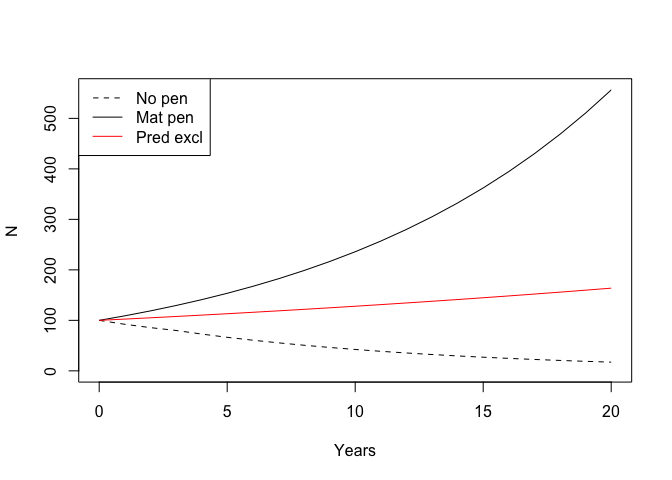
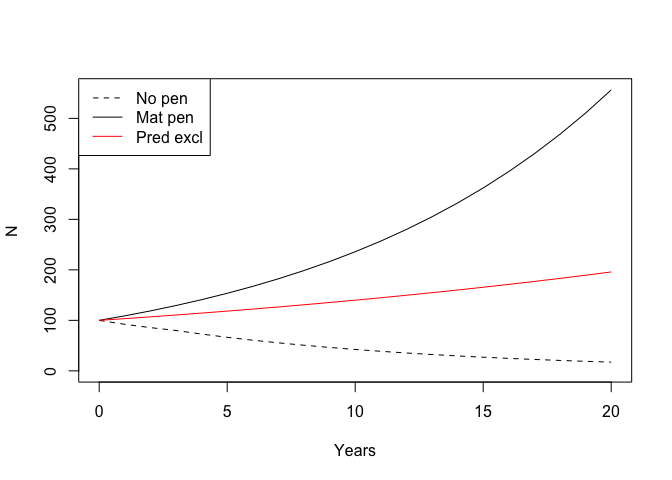
Updated README.md

Changed region(s): [[0.2812, 0.5625, 0.9062, 0.6562], [0.1562, 0.6562, 0.2812, 0.6875]]

diff --git a/README.md b/README.md
@@ -1,27 +1,54 @@
 # WildLift
 
->  An Open-source Tool to Guide Decisions for Wildlife Conservation
+> An Open-source Tool to Guide Decisions for Wildlife Conservation
 
 [![Linux build
 status](https://travis-ci.org/psolymos/CaribouBC.svg?branch=master)](https://travis-ci.org/psolymos/CaribouBC)
 [![codecov](https://codecov.io/gh/psolymos/CaribouBC/branch/master/graph/badge.svg)](https://codecov.io/gh/psolymos/CaribouBC)
 
-Try the [Shiny app](https://psolymos.shinyapps.io/CaribouBC/) or run
-locally as `shiny::runGitHub("bcgov/CaribouBC", subdir =
-"inst/shiny/matpen")`.
+**WildLift** can be used to quantitatively compare the **costs** and
+demographic **benefits** of recovery actions for an iconic threatened
+species, woodland caribou (*Rangifer tarandus caribou*). While we use
+caribou as a case study, our approach to developing this management tool
+is transferable to other threatened taxa.
+
+The tool consists of a generalized matrix population model that is
+parametrized based on information from the published literature or
+ongoing experiments. Users can input population parameters (e.g.,
+population size and survival rates) or choose from pre-set caribou
+subpopulations to estimate changes to populations from implementing
+recovery actions.
+
+The tool estimates the trade-offs associated with seven alternative
+recovery actions:
+
+  - Linear Feature Restoration,
+  - Linear Feature Deactivation,
+  - Maternal Penning,
+  - Conservation Breeding,
+  - Predator Exclosure,
+  - Wolf Reduction, and
+  - Moose Reduction.
+
+Multiple recovery actions are compared allowing users to combine
+demographic augmentation (maternal penning, predator exclosure, and
+conservation breeding) with predator and primary prey reductions.
+
+Try the [Shiny app](https://abbiodiversity.shinyapps.io/WildLift/) or
+run locally as `WildLift::run_app()`.
+
+## Citation
+
+Nagy-Reis, M., Dickie, M., Sólymos, P., Gilbert, S., DeMars, C.,
+Serrouya, R., and Boutin, S., 2020. WildLift: An open-source tool to
+guide decisions for wildlife conservation. *Frontiers in Ecology and
+Evolution*, in press. DOI
+[10.3389/fevo.2020.564508](https://dx.doi.org/10.3389/fevo.2020.564508)
 
 ## Installation
 
-Stable version:
-
 ``` r
-remotes::install_github("bcgov/CaribouBC")
-```
-
-Development version is available as this fork:
-
-``` r
-remotes::install_github("psolymos/CaribouBC")
+remotes::install_github("ABbiodiversity/WildLift")
 ```
 
 See user visible changes in the [NEWS](NEWS.md) file.
@@ -29,16 +56,16 @@ See user visible changes in the [NEWS](NEWS.md) file.
 ## Usage
 
 ``` r
-library(CaribouBC)
+library(WildLift)
 #> Loading required package: popbio
-#> CaribouBC 0.2.2   2019-10-17
+#> WildLift 0.3.0    2020-09-07
 
 ## Predefined settings
-(s1 <- caribou_settings("mat.pen"))
+(s1 <- wildlift_settings("mat.pen"))
 #> Caribou settings - pen type: mat.pen 
 #> 
 #>  - c.surv.wild   :0.163
-#>  - c.surv.capt   :0.54
+#>  - c.surv.capt   :0.598
 #>  - f.surv.wild   :0.853
 #>  - f.surv.capt   :0.903
 #>  - f.preg.wild   :0.92
@@ -49,7 +76,7 @@ library(CaribouBC)
 #>  - pen.cost.maint:300
 #>  - pen.cost.capt :250
 #>  - pen.cost.pred :0
-(s2 <- caribou_settings("pred.excl"))
+(s2 <- wildlift_settings("pred.excl"))
 #> Caribou settings - pen type: pred.excl 
 #> 
 #>  - c.surv.wild   :0.163
@@ -66,7 +93,7 @@ library(CaribouBC)
 #>  - pen.cost.pred :80
 
 ## Modifying predefined settings
-caribou_settings("mat.pen", c.surv.capt=0.65, pen.cap=30)
+wildlift_settings("mat.pen", c.surv.capt=0.65, pen.cap=30)
 #> Caribou settings - pen type: mat.pen 
 #> 
 #>  - c.surv.wild   :0.163
@@ -83,8 +110,8 @@ caribou_settings("mat.pen", c.surv.capt=0.65, pen.cap=30)
 #>  - pen.cost.pred :0
 
 ## Forecast based on settings for 75% females penned
-f1 <- caribou_forecast(s1, fpen.prop = 0.75)
-f2 <- caribou_forecast(s2, fpen.prop = 0.75)
+f1 <- wildlift_forecast(s1, fpen.prop = 0.75)
+f2 <- wildlift_forecast(s2, fpen.prop = 0.75)
 
 ## Most important results summarized
 summary(f1)
@@ -94,14 +121,14 @@ summary(f1)
 #>  - pop.start:100
 #>  - fpen.prop:0.75
 #> 
-#>  - npens      :5
-#>  - lam.pen    :1.02
+#>  - npens      :3
+#>  - lam.pen    :1.03
 #>  - lam.nopen  :0.914
 #>  - Nend.nopen :17
-#>  - Nend.pen   :163
-#>  - Nend.diff  :146
-#>  - Cost.total :56
-#>  - Cost.percap:0.384
+#>  - Nend.pen   :195
+#>  - Nend.diff  :178
+#>  - Cost.total :30.5
+#>  - Cost.percap:0.171
 summary(f2)
 #> Caribou forecast - pen type: pred.excl 
 #> 
@@ -109,14 +136,14 @@ summary(f2)
 #>  - pop.start:100
 #>  - fpen.prop:0.75
 #> 
-#>  - npens      :16
+#>  - npens      :7
 #>  - lam.pen    :1.09
 #>  - lam.nopen  :0.914
 #>  - Nend.nopen :17
 #>  - Nend.pen   :556
 #>  - Nend.diff  :539
-#>  - Cost.total :192
-#>  - Cost.percap:0.356
+#>  - Cost.total :87
+#>  - Cost.percap:0.161
 
 ## Plot the results
 plot(f2)
@@ -130,12 +157,12 @@ legend("topleft", col = c(1,1,2), lty = c(2,1,1),
 ``` r
 
 ## Find 'breakeven' proportion of females penned where lambda=1
-(b1 <- caribou_breakeven(f1, lambda = 1))
-#> [1] 0.5669914
-(b2 <- caribou_breakeven(f2, lambda = 1))
+(b1 <- wildlift_breakeven(f1, lambda = 1))
+#> [1] 0.5171369
+(b2 <- wildlift_breakeven(f2, lambda = 1))
 #> [1] 0.3441178
-f3 <- caribou_forecast(s1, fpen.prop = b1)
-f4 <- caribou_forecast(s2, fpen.prop = b2)
+f3 <- wildlift_forecast(s1, fpen.prop = b1)
+f4 <- wildlift_forecast(s2, fpen.prop = b2)
 ## See that lines are truly flat
 op <- par(mfrow = c(1, 2))
 plot(f3, main = "Mat pen")
@@ -150,13 +177,13 @@ par(op)
 ## Forecast using number of penned females
 ## - it can be an initial number
 ## - or a vector of individuals for subsequent years
-caribou_forecast(s1, fpen.inds = 5)
+wildlift_forecast(s1, fpen.inds = 5)
 #> Caribou forecast - pen type: mat.pen 
 #> 
 #>  - tmax     :20
 #>  - pop.start:100
 #>  - fpen.inds:5
-caribou_forecast(s2, fpen.inds = c(5, 0, 4, 6))
+wildlift_forecast(s2, fpen.inds = c(5, 0, 4, 6))
 #> Caribou forecast - pen type: pred.excl 
 #> 
 #>  - tmax     :20
@@ -167,7 +194,7 @@ caribou_forecast(s2, fpen.inds = c(5, 0, 4, 6))
 ## Getting Help or Reporting an Issue
 
 To report bugs/issues/feature requests, please file an
-[issue](https://github.com/bcgov/CaribouBC/issues/).
+[issue](https://github.com/Abbiodiversity/WildLift/issues/).
 
 ## How to Contribute
 
